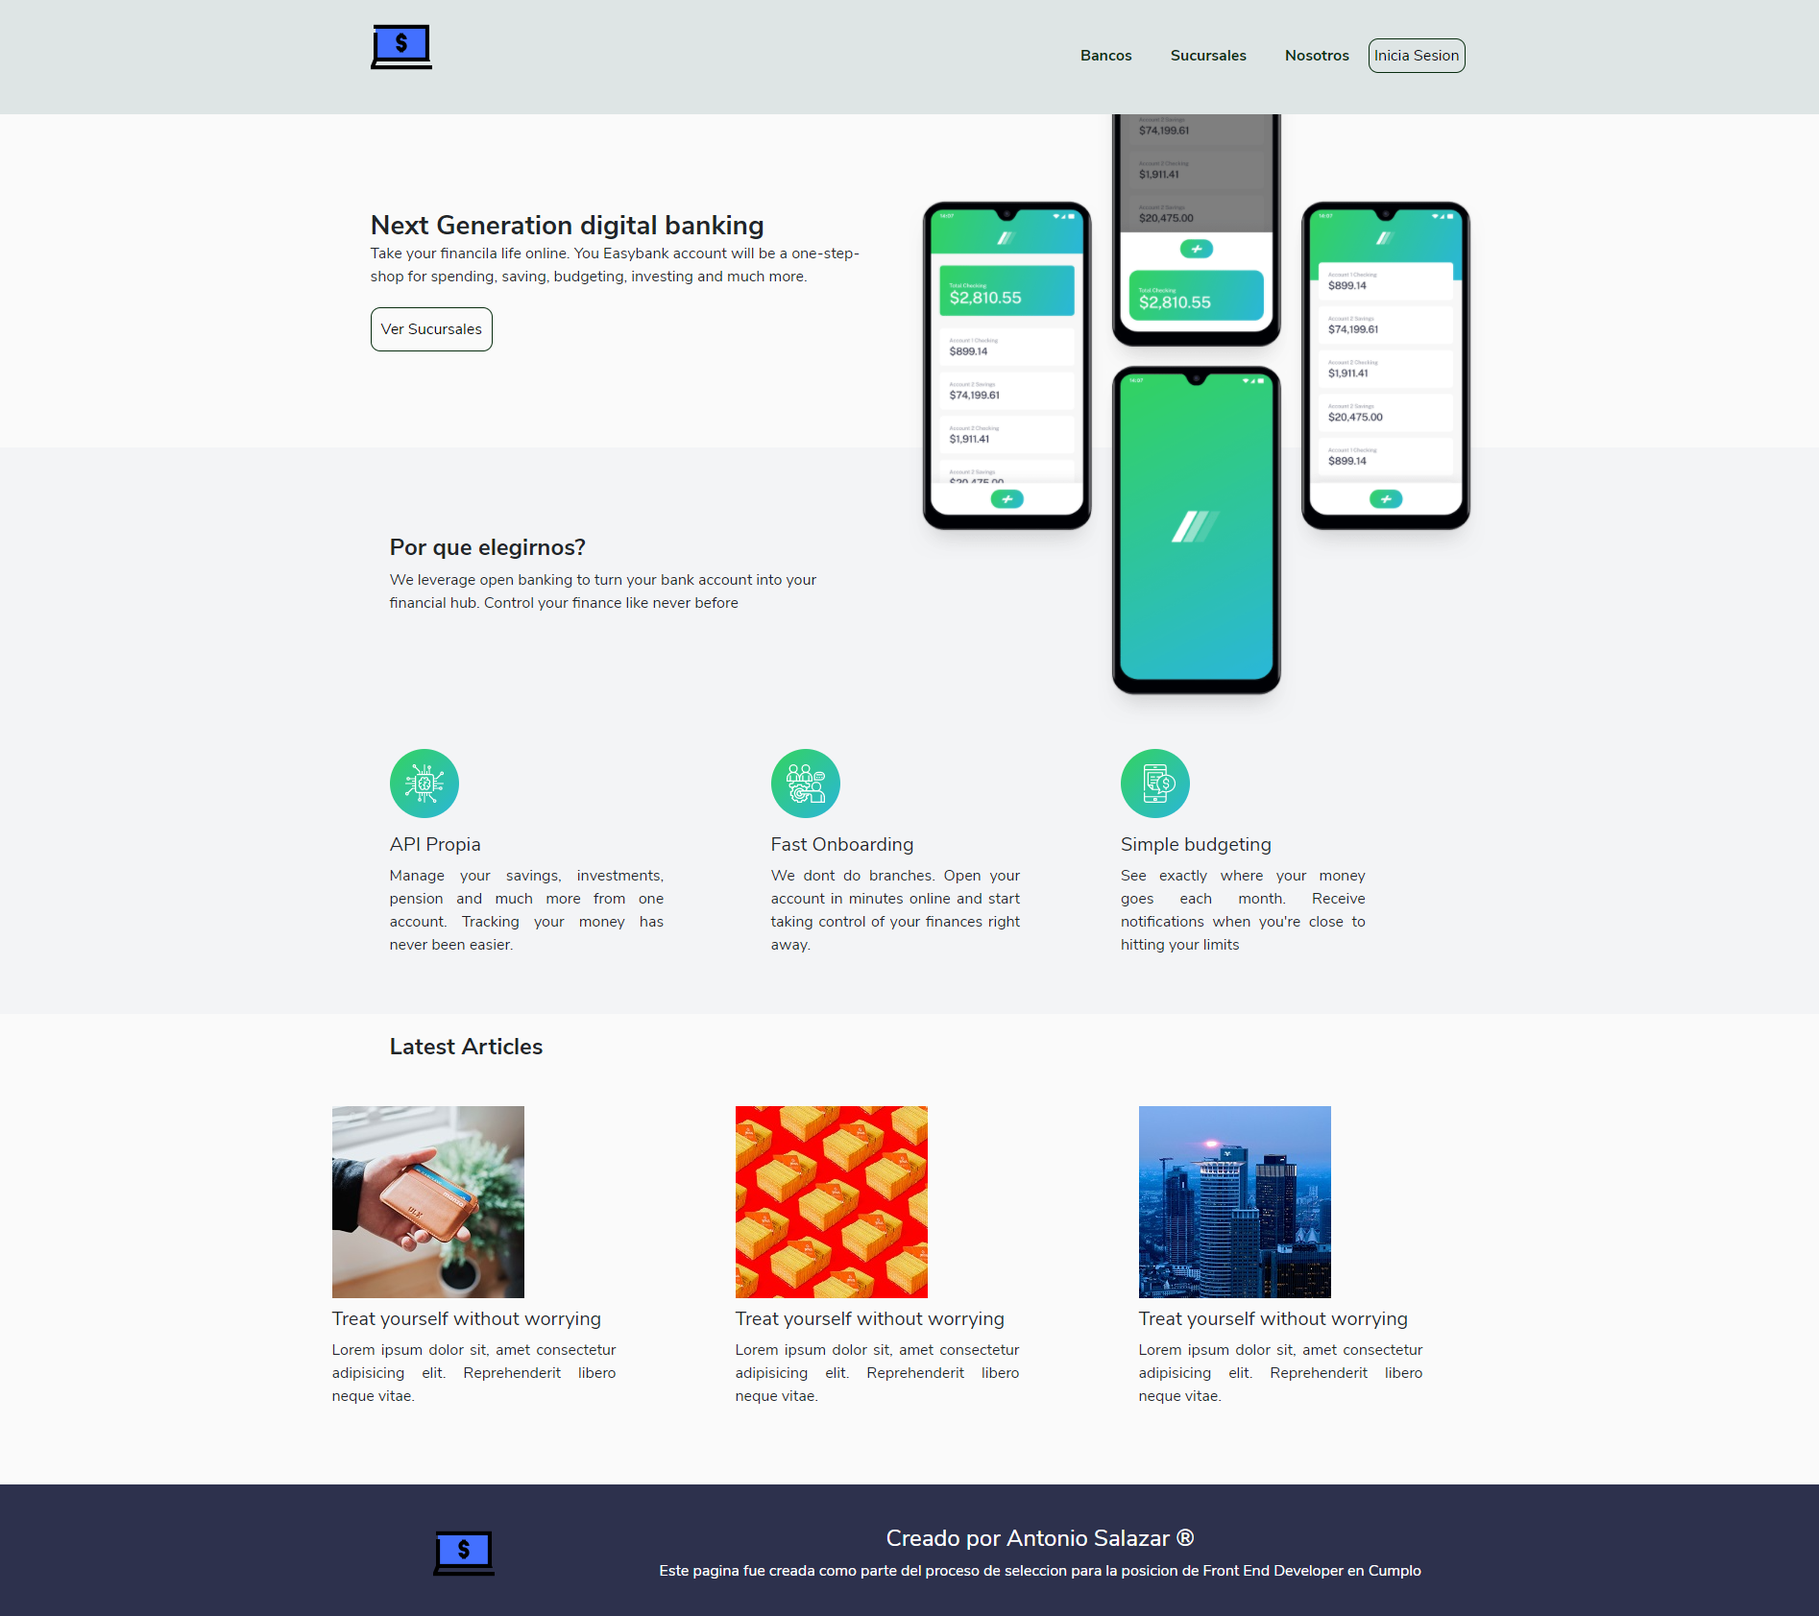
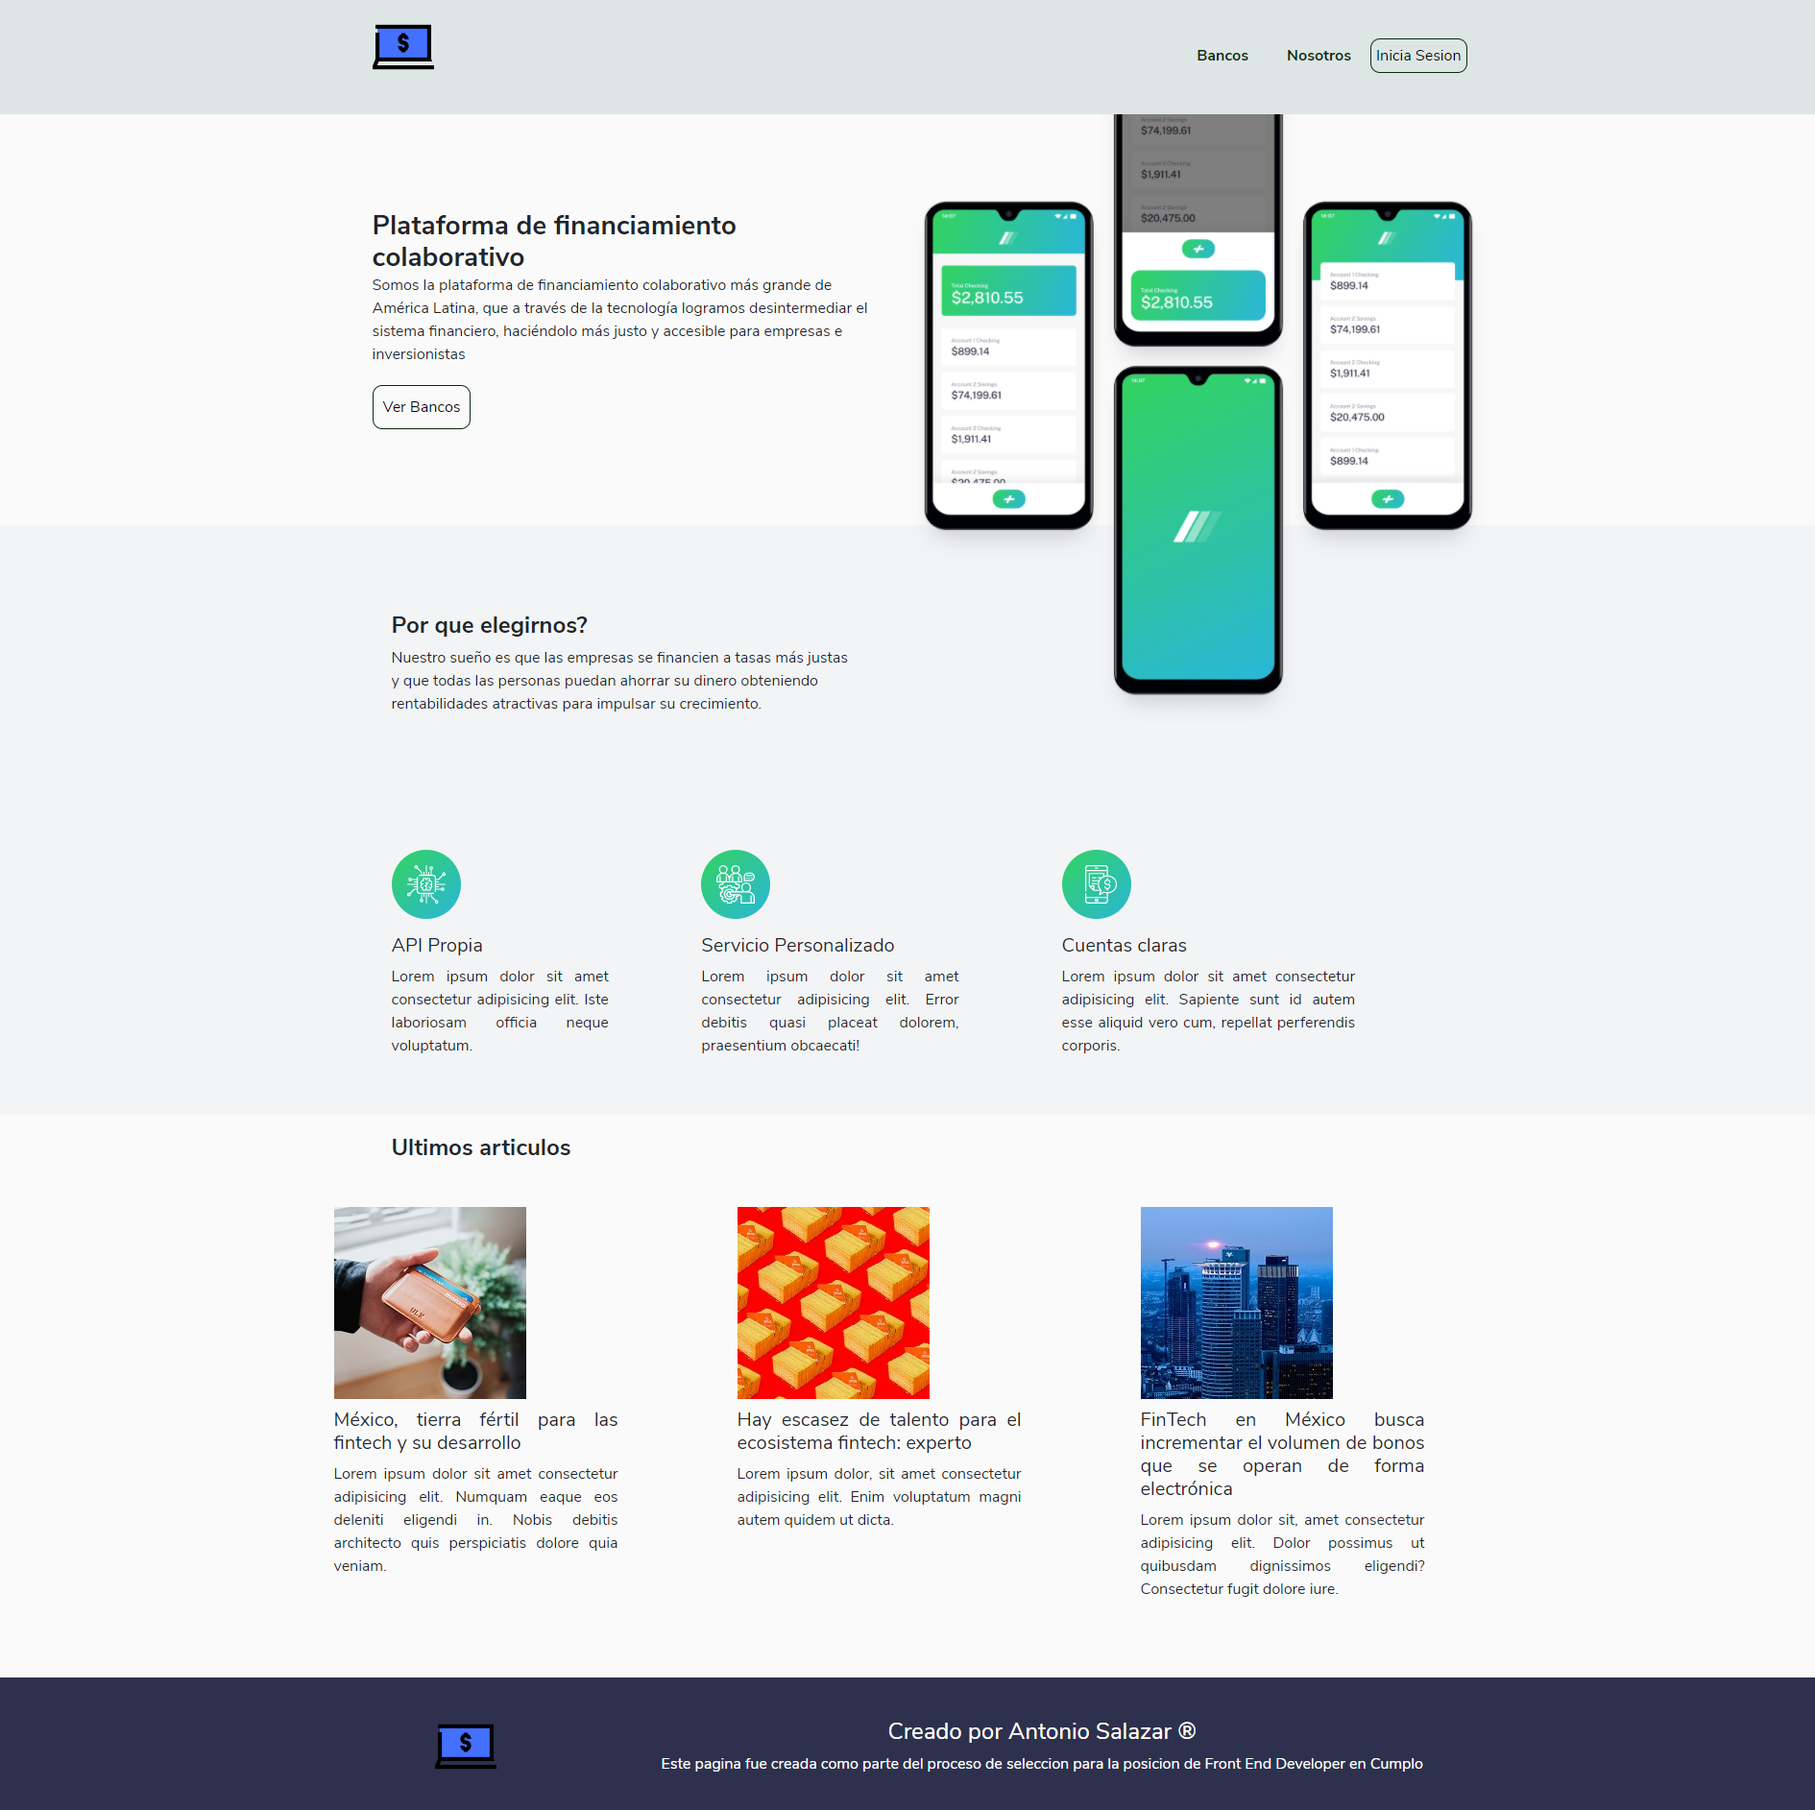
adding some imgs of the project

diff --git a/src/Components/LatestArticles.js b/src/Components/LatestArticles.js
@@ -8,7 +8,7 @@ const LatestArticles = () => {
         <section className='articles'>
             <div className="articles__container">
                 <div className="articles__title">
-                    <h4>Latest Articles</h4>
+                    <h4>Ultimos articulos</h4>
                 </div>
                 <div className="articles__latest">
                     <div className="articles__latest-each">
@@ -17,11 +17,11 @@ const LatestArticles = () => {
                         </div>
                         <div className="articles__latest-text">
                             <div className="articles__latest-test-title">
-                                <h5>Treat yourself without worrying</h5>
+                                <h5>México, tierra fértil para las fintech y su desarrollo</h5>
                             </div>
                             <div className="articles__latest-test-paragraph">
                                 <p>
-                                Lorem ipsum dolor sit, amet consectetur adipisicing elit. Reprehenderit libero neque vitae.
+                                Lorem ipsum dolor sit amet consectetur adipisicing elit. Numquam eaque eos deleniti eligendi in. Nobis debitis architecto quis perspiciatis dolore quia veniam.
                                 </p>
                             </div>
                         </div>
@@ -33,11 +33,11 @@ const LatestArticles = () => {
                         </div>
                         <div className="articles__latest-text">
                             <div className="articles__latest-test-title">
-                                <h5>Treat yourself without worrying</h5>
+                                <h5>Hay escasez de talento para el ecosistema fintech: experto</h5>
                             </div>
                             <div className="articles__latest-test-paragraph">
                                 <p>
-                                Lorem ipsum dolor sit, amet consectetur adipisicing elit. Reprehenderit libero neque vitae.
+                                    Lorem ipsum dolor, sit amet consectetur adipisicing elit. Enim voluptatum magni autem quidem ut dicta.
                                 </p>
                             </div>
                         </div>
@@ -49,11 +49,11 @@ const LatestArticles = () => {
                         </div>
                         <div className="articles__latest-text">
                             <div className="articles__latest-test-title">
-                                <h5>Treat yourself without worrying</h5>
+                                <h5>FinTech en México busca incrementar el volumen de bonos que se operan de forma electrónica</h5>
                             </div>
                             <div className="articles__latest-test-paragraph">
                                 <p>
-                                Lorem ipsum dolor sit, amet consectetur adipisicing elit. Reprehenderit libero neque vitae.
+                                    Lorem ipsum dolor sit, amet consectetur adipisicing elit. Dolor possimus ut quibusdam dignissimos eligendi? Consectetur fugit dolore iure.
                                 </p>
                             </div>
                         </div>

diff --git a/src/Components/WhyUs.js b/src/Components/WhyUs.js
@@ -12,9 +12,7 @@ const WhyUs = () => {
                         <h4>Por que elegirnos?</h4>
                     </div>
                     <div className="whyus__text-paragraph">
-                        <p>We leverage open banking to turn your bank account into your
-                            financial hub. Control your finance like never before
-                        </p>
+                        <p>Nuestro sueño es que las empresas se financien a tasas más justas y que todas las personas puedan ahorrar su dinero obteniendo rentabilidades atractivas para impulsar su crecimiento.</p>
                     </div>
                 </div>
                 <div className="whyus__reasons">
@@ -28,8 +26,7 @@ const WhyUs = () => {
                             <h5>API Propia</h5>
                         </div>
                         <div className="whyus__reasons-each-paragraph">
-                            <p>Manage your savings, investments, pension and much
-                                more from one account. Tracking your money has never been easier.
+                            <p>Lorem ipsum dolor sit amet consectetur adipisicing elit. Iste laboriosam officia neque voluptatum.
                             </p>
                         </div>
                     </div>
@@ -40,12 +37,11 @@ const WhyUs = () => {
                             </figure>
                         </div>
                         <div className="whyus__reasons-each-title">
-                            <h5>Fast Onboarding</h5>
+                            <h5>Servicio Personalizado</h5>
                         </div>
                         <div className="whyus__reasons-each-paragraph">
                             <p>
-                                We dont do branches. Open your account in minutes online
-                                and start taking control of your finances right away.
+                            Lorem ipsum dolor sit amet consectetur adipisicing elit. Error debitis quasi placeat dolorem, praesentium obcaecati!    
                             </p>
                         </div>
                     </div>
@@ -56,13 +52,11 @@ const WhyUs = () => {
                             </figure>
                         </div>
                         <div className="whyus__reasons-each-title">
-                            <h5>Simple budgeting</h5>
+                            <h5>Cuentas claras</h5>
                         </div>
                         <div className="whyus__reasons-each-paragraph">
                             <p>
-                                See exactly where your money goes each month. Receive
-                                notifications when you're close to hitting your limits
-                            </p>
+                                Lorem ipsum dolor sit amet consectetur adipisicing elit. Sapiente sunt id autem esse aliquid vero cum, repellat perferendis corporis.</p>
                         </div>
                     </div>
                 </div>

diff --git a/src/Components/NewEmployee.js b/src/Components/NewEmployee.js
@@ -1,10 +1,11 @@
 import React, {  useState } from 'react'
 import { useParams } from 'react-router-dom'
 import axios from 'axios'
+import Error from './Error'
+import {Redirect} from 'react-router-dom';
 
 const NewEmployee = () => {
 
-    // const {  addNewEmployee, setNewEmployeeData } = useContext(EmployeesContext);
 
     const { id } = useParams()
 
@@ -16,6 +17,9 @@ const NewEmployee = () => {
     }
 
     const [ newEmployee, setNewEmployee ] = useState(newEmployeeData)
+    const [ error, setError ] = useState(false)
+    const [ errorMessage, setErrorMessage ]= useState('')
+    const [ redirect, setRedirect ] = useState(false)
 
     //getting the value of whatever the user enters in the input
     const getNewEmployeeData = e => {
@@ -24,18 +28,43 @@ const NewEmployee = () => {
             [e.target.name] : e.target.value
         })
     }
-    console.log(newEmployee)
+    const { name, last_name } = newEmployee
+
 
     const addNewEmployee =  e => {
+
+        const regexPattern = new RegExp('^[A-Za-zÀ-ÿ _]*[A-Za-zÀ-ÿ][A-Za-zÀ-ÿ _]*$');
+
         e.preventDefault()
-        axios
-            .post(`https://tryouts-cumplo.herokuapp.com/employees/?branch=${id}`, newEmployee)
-            .then(response => {
-                console.log(response)
-            })
-            .catch(error => {
-                console.log(error)
-            })
+        if(!name.trim() || !last_name.trim()){
+            setError(true)
+            setErrorMessage('El nombre y apellido son obligatorios')
+            return
+        } else if(!regexPattern.test(name) || !regexPattern.test(last_name) ){
+            setError(true)
+            setErrorMessage('Solo se pueden usar letras, acentos y espacios')
+            return
+        } else {
+            setError(false)
+            axios
+                .post(`https://tryouts-cumplo.herokuapp.com/employees/?branch=${id}`, newEmployee)
+                .then(response => {
+                    console.log(response)
+                    setNewEmployee({
+                        name: '',
+                        middle_name: '',
+                        last_name: ''
+                    })
+                    setRedirect(true)
+                })
+                .catch(error => {
+                    console.log(error)
+                })
+        }
+    }
+
+    if (redirect) {
+        return <Redirect to={`/sucursales/empleados/${id}`}/>
     }
 
     return (
@@ -45,6 +74,13 @@ const NewEmployee = () => {
                 <form
                     onSubmit={addNewEmployee}
                 >
+                    {
+                        error && (
+                            <Error 
+                                message={errorMessage}
+                            />
+                        )
+                    }
                     <input 
                         type="text" 
                         className="form-control mb-2"

diff --git a/src/styles/CSS/index.css b/src/styles/CSS/index.css
@@ -5,10 +5,10 @@
   -webkit-box-sizing: border-box;
   -moz-box-sizing: border-box; }
 
-body {
+body, html {
   font-family: 'Nunito Sans', sans-serif;
   width: 100%;
-  height: 100%; }
+  height: 100vh; }
 
 p, h1, h2, h3 {
   margin: 0; }
@@ -87,6 +87,8 @@ header {
   .introduction__text {
     width: 50%;
     padding: 100px 40px; }
+    .introduction__text-paragraph p {
+      text-align: justify; }
     .introduction__text-title h3 {
       font-weight: 700; }
     .introduction__text-btn button {
@@ -255,6 +257,8 @@ footer {
   .banks__container {
     width: 80%;
     max-width: 1200px; }
+  .banks h2 {
+    padding: 20px 0px 0px 40px; }
   .banks__cards-container {
     display: flex;
     flex-wrap: wrap;
@@ -304,6 +308,9 @@ footer {
     padding: 40px;
     width: 80%;
     max-width: 1200px; }
+  .branches h2 {
+    padding: 20px 0px 0px 60px;
+    margin-bottom: 20px; }
   .branches__no-branch {
     display: flex;
     flex-direction: column;
@@ -315,7 +322,10 @@ footer {
     .branches__no-branch img {
       padding: 20px 0px;
       width: 30%;
-      margin-bottom: 50px; }
+      margin-bottom: 50px;
+      background-size: cover;
+      background-position: center;
+      background-repeat: no-repeat; }
   .branches__cards-container {
     display: flex;
     flex-direction: column;
@@ -359,12 +369,14 @@ footer {
 .new-employee {
   background: #f2f2f2;
   display: flex;
-  justify-content: center; }
+  justify-content: center;
+  height: 100%; }
   .new-employee__container {
+    margin-top: 100px;
     width: 80%;
     max-width: 1200px;
-    background: orangered;
-    padding: 20px; }
+    padding: 20px;
+    margin-bottom: 200px; }
   .new-employee form {
     display: flex;
     flex-wrap: wrap;

diff --git a/src/Components/Introduction.js b/src/Components/Introduction.js
@@ -1,5 +1,5 @@
 import React from 'react'
-import background from '../image-mockups.png'
+import background from '../img/image-mockups.png'
 import {Link} from 'react-router-dom'
 
 const Introduction = () => {
@@ -8,12 +8,10 @@ const Introduction = () => {
             <div className="introduction__container">
                 <div className="introduction__text">
                     <div className="introduction__text-title">
-                        <h3>Next Generation digital banking</h3>
+                        <h3>Plataforma de financiamiento colaborativo</h3>
                     </div>
                     <div className="introduction__text-paragraph">
-                        <p>Take your financila life online. You Easybank account will be a one-step-shop for spending,
-                            saving, budgeting, investing and much more.     
-                        </p>
+                        <p>Somos la plataforma de financiamiento colaborativo más grande de América Latina, que a través de la tecnología logramos desintermediar el sistema financiero, haciéndolo más justo y accesible para empresas e inversionistas</p>
                     </div>
                     <div className="introduction__text-btn">
                         <Link to='/bancos'>

diff --git a/src/styles/SASS/Branches/Branches.scss b/src/styles/SASS/Branches/Branches.scss
@@ -9,6 +9,12 @@
         max-width: 1200px;
     }   
 
+    & h2 {
+        padding: 20px 0px 0px 60px;
+        margin-bottom: 20px;
+
+    }
+
     &__no-branch {
         display: flex;
         flex-direction: column;
@@ -23,6 +29,9 @@
             padding: 20px 0px;
             width: 30%;
             margin-bottom: 50px;
+            background-size: cover;
+            background-position: center;
+            background-repeat: no-repeat;
         }
     }
 

diff --git a/src/Components/Employees.js b/src/Components/Employees.js
@@ -49,7 +49,7 @@ const Employees = () => {
                                 type='button'
                                 className='btn btn-info mr-1 mt-2'
                                 onClick={previousPage}
-                            >Anterior &laquo;</button>
+                            >&laquo; Anterior</button>
                         )
                     }
                     {

diff --git a/src/Components/Banks.js b/src/Components/Banks.js
@@ -14,7 +14,7 @@ const Banks = () => {
     return (
             <section className='banks'>
                 <div className="banks__container">
-    
+                    <h2>Bancos:</h2>
                     <div className="banks__cards-container">
                         {
                             banks.map(eachBank => 

diff --git a/src/Components/Branches.js b/src/Components/Branches.js
@@ -22,7 +22,7 @@ const Branches = () => {
     return (
         <section className='branches'>
             <div className="branches__container">
-
+                <h2>Sucursales:</h2>
                 {
                     filteredBranches.length === 0 ? (
                         <div className="branches__no-branch">

diff --git a/src/styles/SASS/NewEmployee/NewEmployee.scss b/src/styles/SASS/NewEmployee/NewEmployee.scss
@@ -2,11 +2,13 @@
     background: #f2f2f2;
     display: flex;
     justify-content: center;
+    height: 100%;
     &__container{
+        margin-top: 100px;
         width: 80%;
         max-width: 1200px;
-        background: orangered;
         padding: 20px;
+        margin-bottom: 200px;
     }
 
     & form {

diff --git a/src/Components/Header.js b/src/Components/Header.js
@@ -3,7 +3,7 @@ import { UserContext } from '../Context/UserProvider'
 import {
     Link,
   } from 'react-router-dom';
-import logo from '../bank-online.png'
+import logo from '../img/bank-online.png'
 
 const Header = () => {
 

diff --git a/src/styles/SASS/Introduction/Introduction.scss b/src/styles/SASS/Introduction/Introduction.scss
@@ -14,6 +14,10 @@
     &__text{
         width: 50%;
         padding: 100px 40px;
+        
+        &-paragraph p {
+            text-align: justify;
+        }
 
         &-title h3 {
             font-weight: 700;
